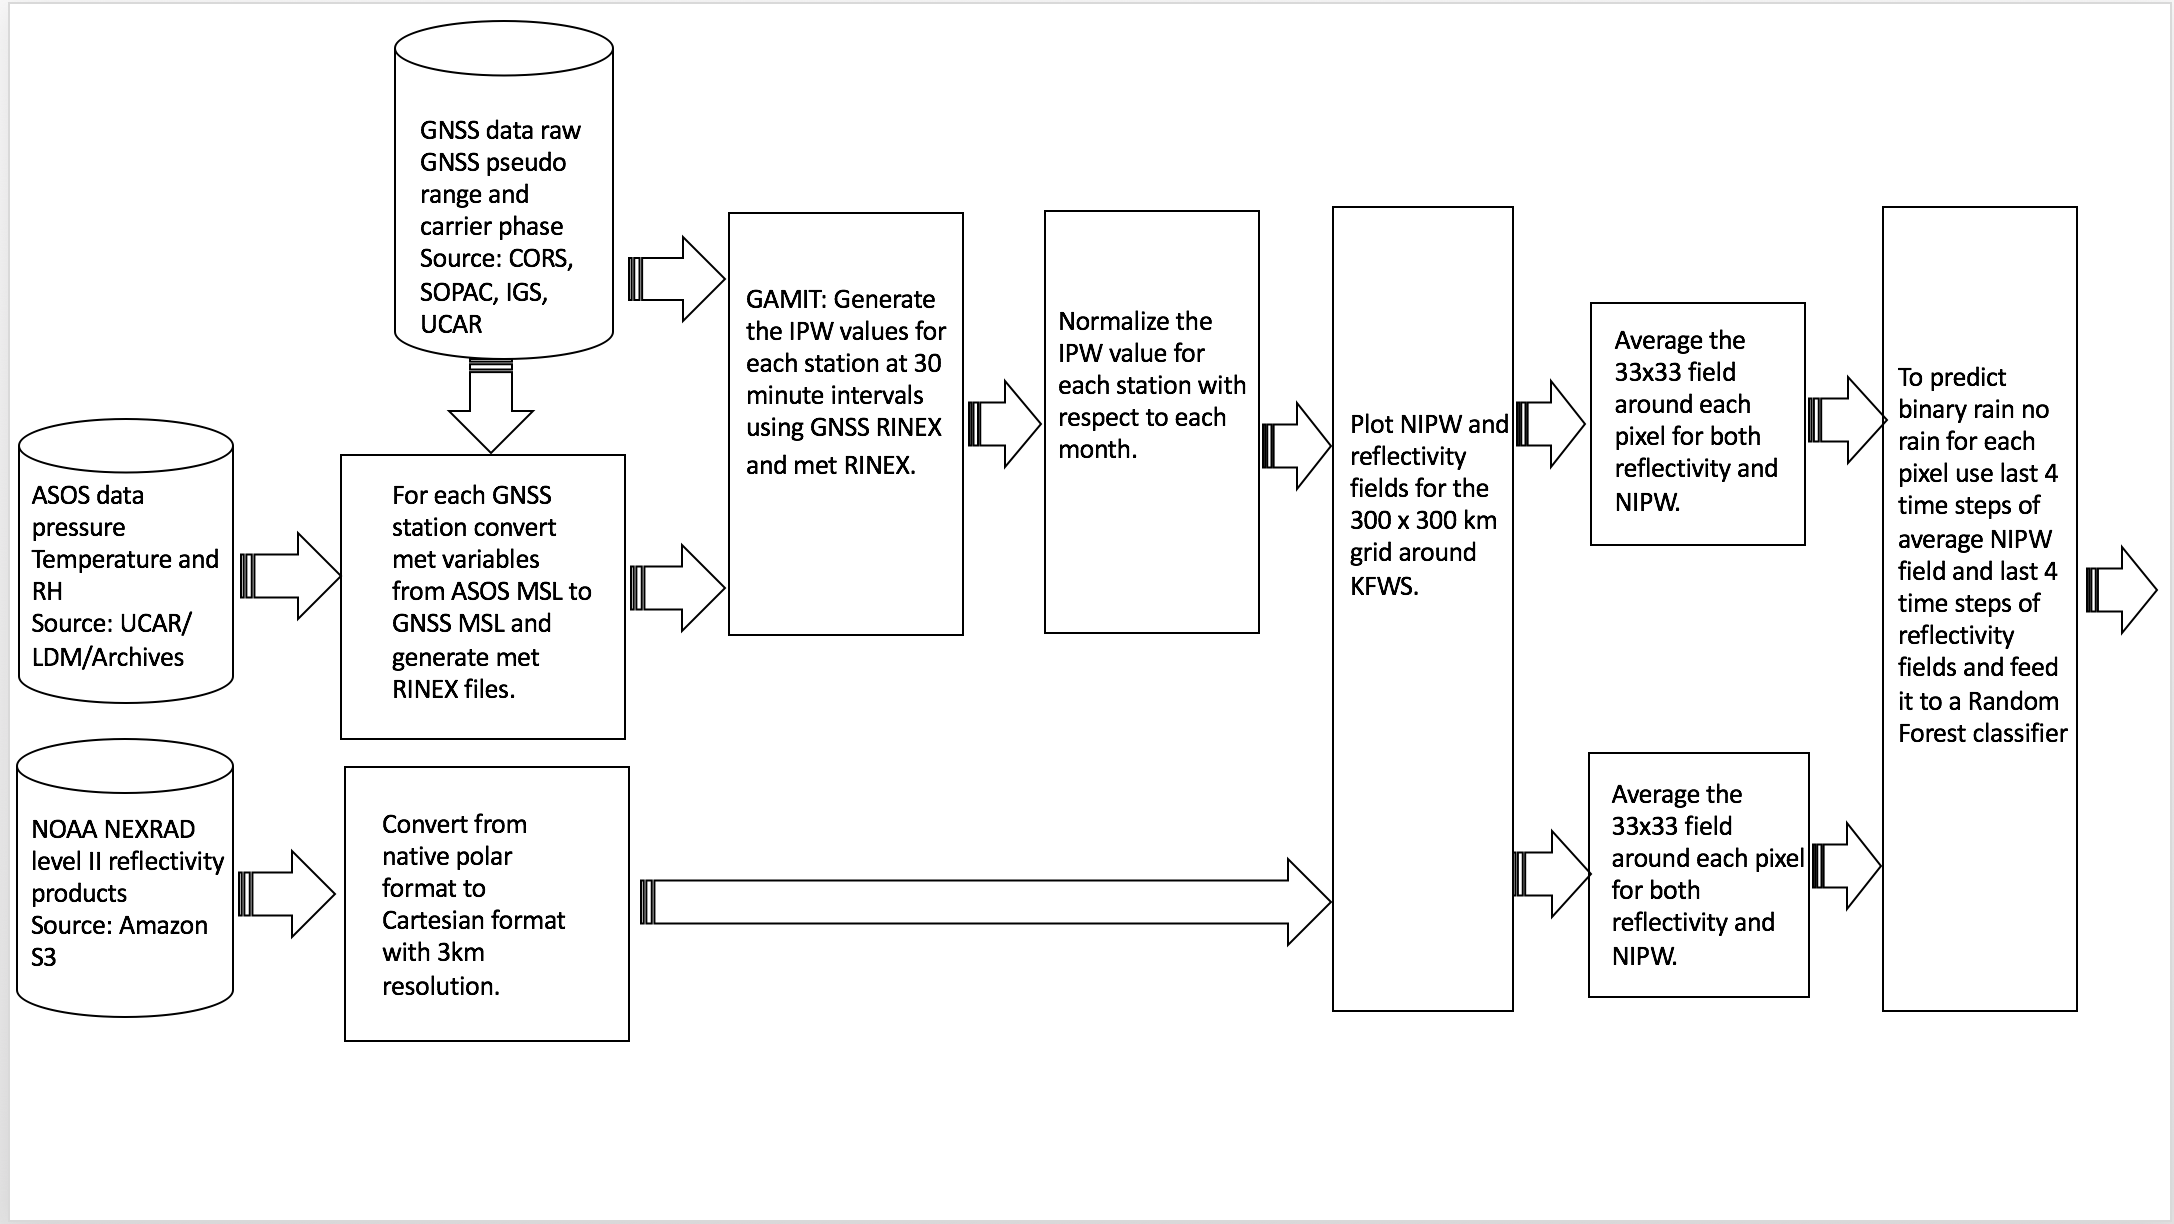
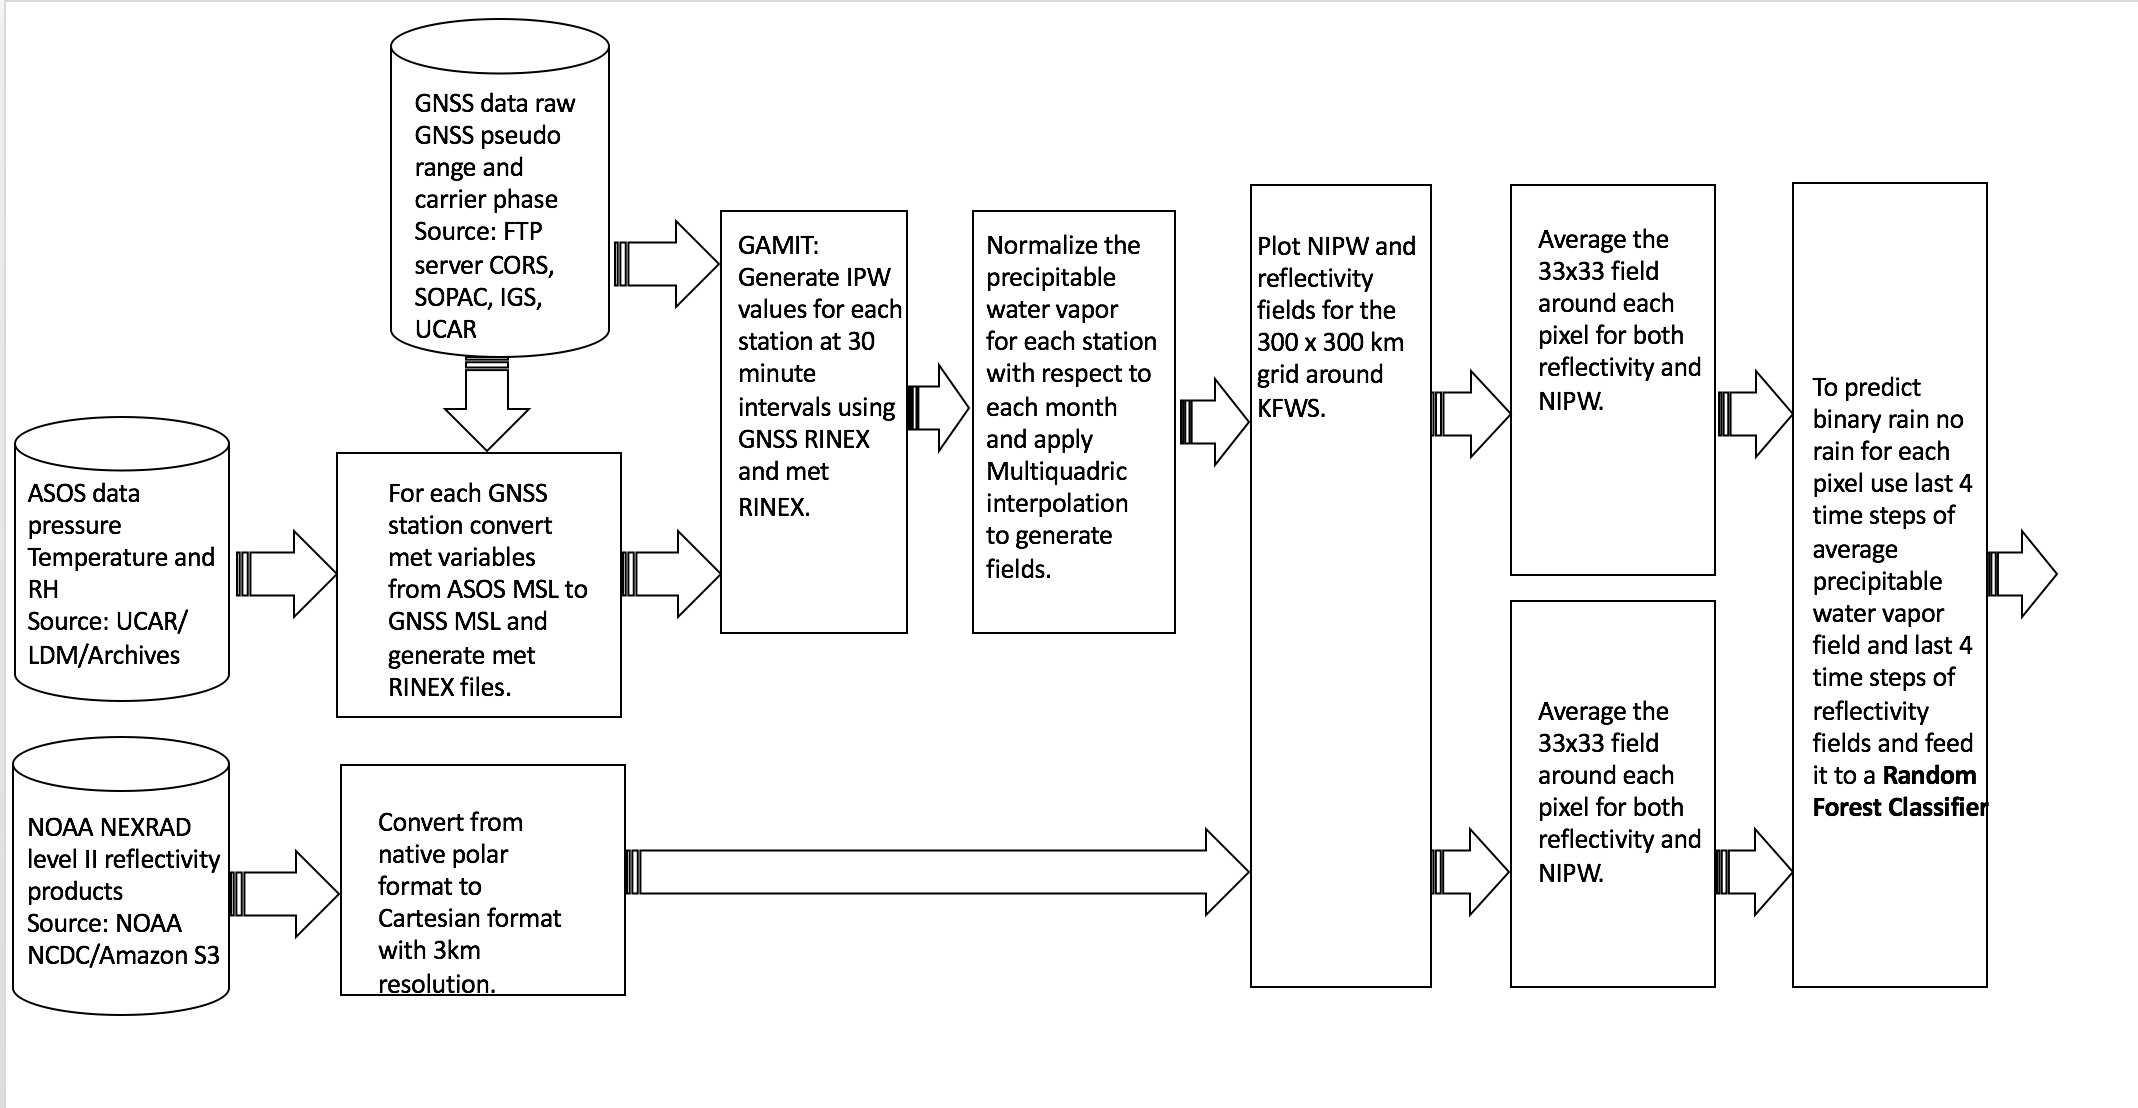
final vaisala document

diff --git a/_posts/2016-02-28-Vaisala-Open-Weather-Data-Challenge.md b/_posts/2016-02-28-Vaisala-Open-Weather-Data-Challenge.md
@@ -16,31 +16,31 @@ is that the amount of water vapor at any given time and at a given location is v
 a weather forecasting system with accurate measurements of water vapor at high temporal and spatial resolutions
 would benefit any weather forecasting/nowcasting system. The current methods to measure water vapor are as follows
 
- 1. Radiosondes: A radiosonde is a battery powered telemetry instrument package with sensors for sampling various atmospheric variables as it is 
+1. Radiosondes: A radiosonde is a battery powered telemetry instrument package with sensors for sampling various atmospheric variables as it is 
 carried up by a balloon from ground launch to between 20-30 km altitude (http://www.wrh.noaa.gov/rev/tour/UA/introduction.php). 
 While radiosondes have the advantage that they can measure the vertical distribution of water vapor, they have the distinct disadvantages that they are 
 typically only launched two times a day (at 0000 and 1200 UTC) and from only a handful of locations 
 (the entire CONUS is covered by a mere 90 radiosonde launch sites). 
  
- 2. Radiometers: Ground-based water vapor radiometers measure the background microwave radiation emitted by 
- atmospheric water vapor along a given line of site. 
- An advantage of these instruments is their ability to make continuous measurements of water vapor. 
- Disadvantages are cost, calibration, and sparse spatial deployment. They are also limited in that 
- they do not work when it is raining.
+2. Radiometers: Ground-based water vapor radiometers measure the background microwave radiation emitted by 
+atmospheric water vapor along a given line of site. 
+An advantage of these instruments is their ability to make continuous measurements of water vapor. 
+Disadvantages are cost, calibration, and sparse spatial deployment. They are also limited in that 
+they do not work when it is raining.
  
- 3. Satellites: The GOES (Geostationary Operational Environmental Satellite) system provides two sources of 
- information about the water vapor imagery through its water vapor channel 
- (at 4km spatial resolution, 15 min temporal resolution), and sounder retrievals (at 20km spatial resolution, 
- 1hr temporal resolution). Both of these observations, however, are negatively impacted by cloud cover.
+3. Satellites: The GOES (Geostationary Operational Environmental Satellite) system provides two sources of 
+information about the water vapor imagery through its water vapor channel 
+(at 4km spatial resolution, 15 min temporal resolution), and sounder retrievals (at 20km spatial resolution, 
+1hr temporal resolution). Both of these observations, however, are negatively impacted by cloud cover.
  
- 4. GPS-Meteorology: GPS-meteorology (GPS-Met) is a technique that allows GPS receivers to simultaneously perform the 
- multiple functions of position estimation and precipitable water vapor estimation. For a given GPS receiver, 
- precipitable water vapor estimates can be made with 30-minute temporal resolution. In regions, such as the middle 
- and western U.S., where there is a high density of Continuously Operated GPS Reference Stations (CORS). 
- Techniques have been developed to combine the water vapor measurements from multiple stations into 2D and 
- 3D water vapor fields. The spatial resolution of the field depends on the density of GPS stations (spatial Nyquist). 
- While GPS-Met currently cannot provide the spatial and temporal resolution of that of GOES satellite, 
- it has the advantage that it is accurate in all weather conditions and not impacted by clouds or precipitation.
+4. GPS-Meteorology: GPS-meteorology (GPS-Met) is a technique that allows GPS receivers to simultaneously perform the 
+multiple functions of position estimation and precipitable water vapor estimation. For a given GPS receiver, 
+precipitable water vapor estimates can be made with 30-minute temporal resolution. In regions, such as the middle 
+and western U.S., where there is a high density of Continuously Operated GPS Reference Stations (CORS). 
+Techniques have been developed to combine the water vapor measurements from multiple stations into 2D and 
+3D water vapor fields. The spatial resolution of the field depends on the density of GPS stations (spatial Nyquist). 
+While GPS-Met currently cannot provide the spatial and temporal resolution of that of GOES satellite, 
+it has the advantage that it is accurate in all weather conditions and not impacted by clouds or precipitation.
 
 Our solution for the Vaisala Open Weather data challenge is focused on using open source GNSS data from a dense network 
 of GNSS stations along with in-situ surface meterological observations to obtain a the amount of precipitable water vapor in the
@@ -116,7 +116,7 @@ The figure below shows a map of all the sensors used in this study with respect 
 {:.center}
 ![Figure 1. Sensor map in the Dallas Fort-Worth area Texas](/pictures/GPS_ASOS_Locations.png)
 
-The following figure summarizes the data pipeline.
+The following figure summarizes the data pipeline which includes all of out input data bases to our output products. 
 {:.center}
 ![Figure 1. Data pipeline to realize this nowcasting algorithm in realtime](/pictures/data_pipeline.png)
 
@@ -175,45 +175,3 @@ performance by precision recall curves and standard nowcasting statistics POD, F
 Our next step is to to build a feature engineering step which extracts the features from the precipitable water fields and 
 the precipitation fields to predict the precipitation fields 1 hour in the future. We also plan to deploy our system in 
 real time before the storm season of 2016. 
-
-![Figure 1. Nowcasting Schematic](/pictures/nowcast_over_time.png)
-
-The above mentioned algorithm can be summarized with the following concept of operation.  
-
-# CONOPS
-
-1. Get GPS data for current time epoch.
-
-2. Get ASOS data for current time epoch.
-
-3. Get NEXRAD reflectivity data for current time epoch.
-
-4. Map met data from ASOS stations to each GPS station and put in RINEX format (involves choosing closest ASOS station, transforming the data from ASOS station height to GPS station height, and putting the met data, surface pressure, surface temperature, and surface relative humidity, in RINEX format).
-
-5. Run GAMIT to get an IPW value for each GPS station.
-
-6. FOR REAL-TIME OPERATION, COULD MAINTAIN RUNNING AVERAGE/VARIANCE OF IPW AT EACH STATION
-
-7. Normalize IPW value (either with a running multi-day average or using historical monthly average) to eliminate height and other effects to get normalized IPW (NIPW) value for each GPS station.
-
-8. Use geospatial interpolation to interpolate NIPW values from each GPS station to the grid that defines the precipitation prediction domain.
-
-9. Map the NEXRAD reflectivity data from its polar coordinates to the same precipitation prediction grid.
-
-10. For each grid point
-  1. Calculate average NIPW for past 4 time epochs in 33 by 33 region around grid point.
-
-  2. Ditto for reflectivity.
-
-  3. Feed the above 8-vector into the appropriate trained random forest classifer to get the precipitation probability for the grid point for 1-hour in the future.
-
-  4. If probability exceeds a given threshold, set the grid point to 1 (will rain next hour), otherwise set it to 0 (won’t rain next hour).
-
-  5. FOR REAL-TIME OPERATION COULD UPDATE LEARNING BASED ON PERFORMANCE DURING LAST EPOCH
-11. End
-
-12. Display predicted precipitation field (currently a binary field showing where dBZ is expected to exceed 24dBZ).
-
-
-
-
